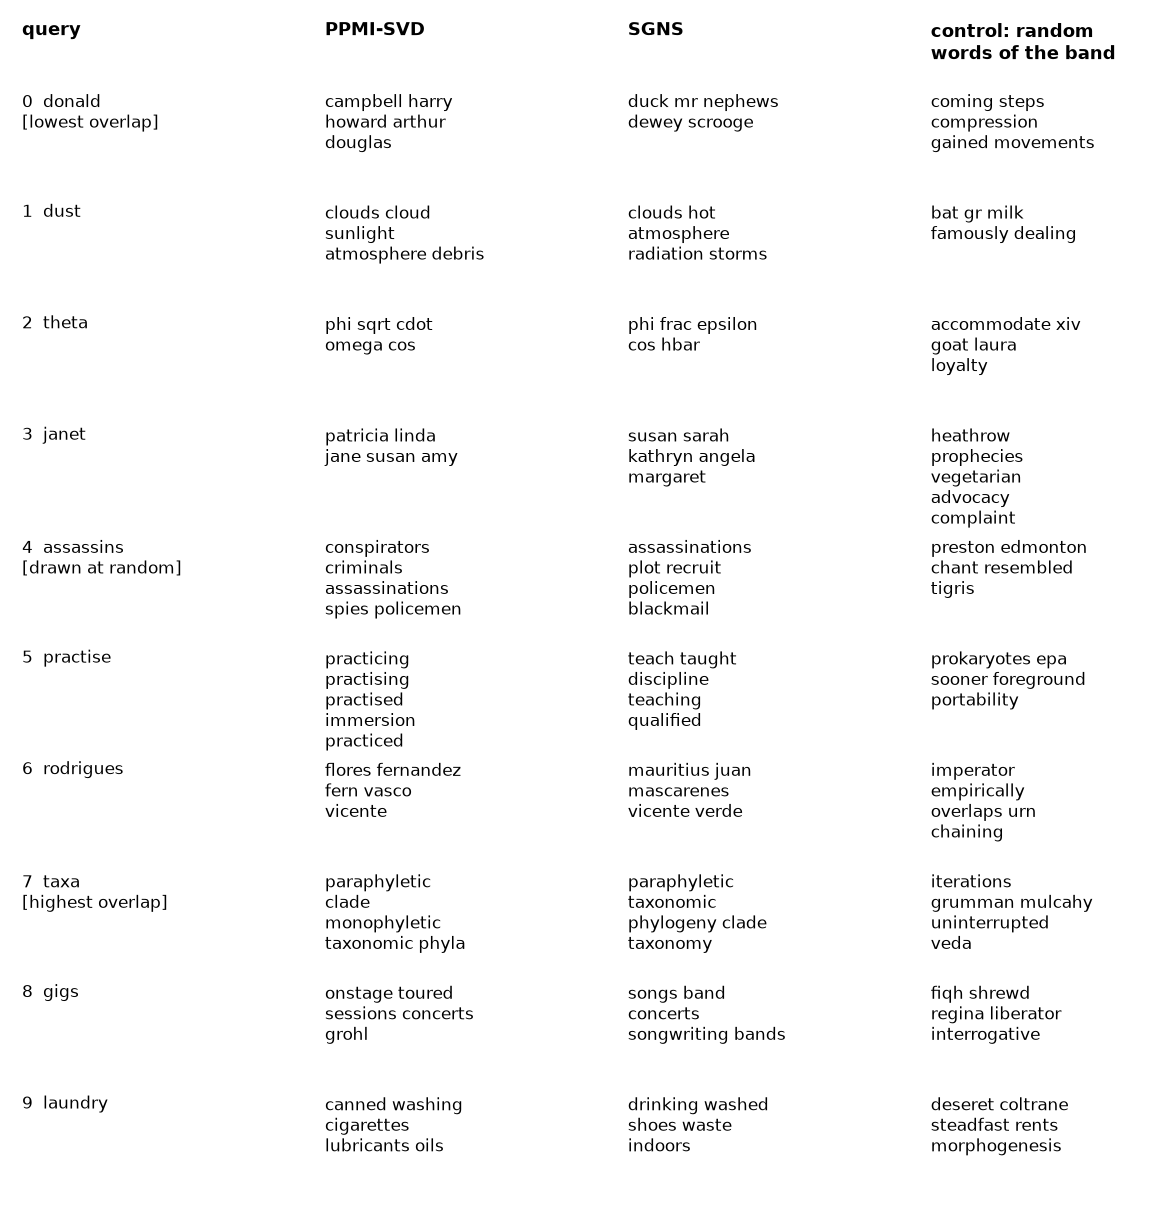
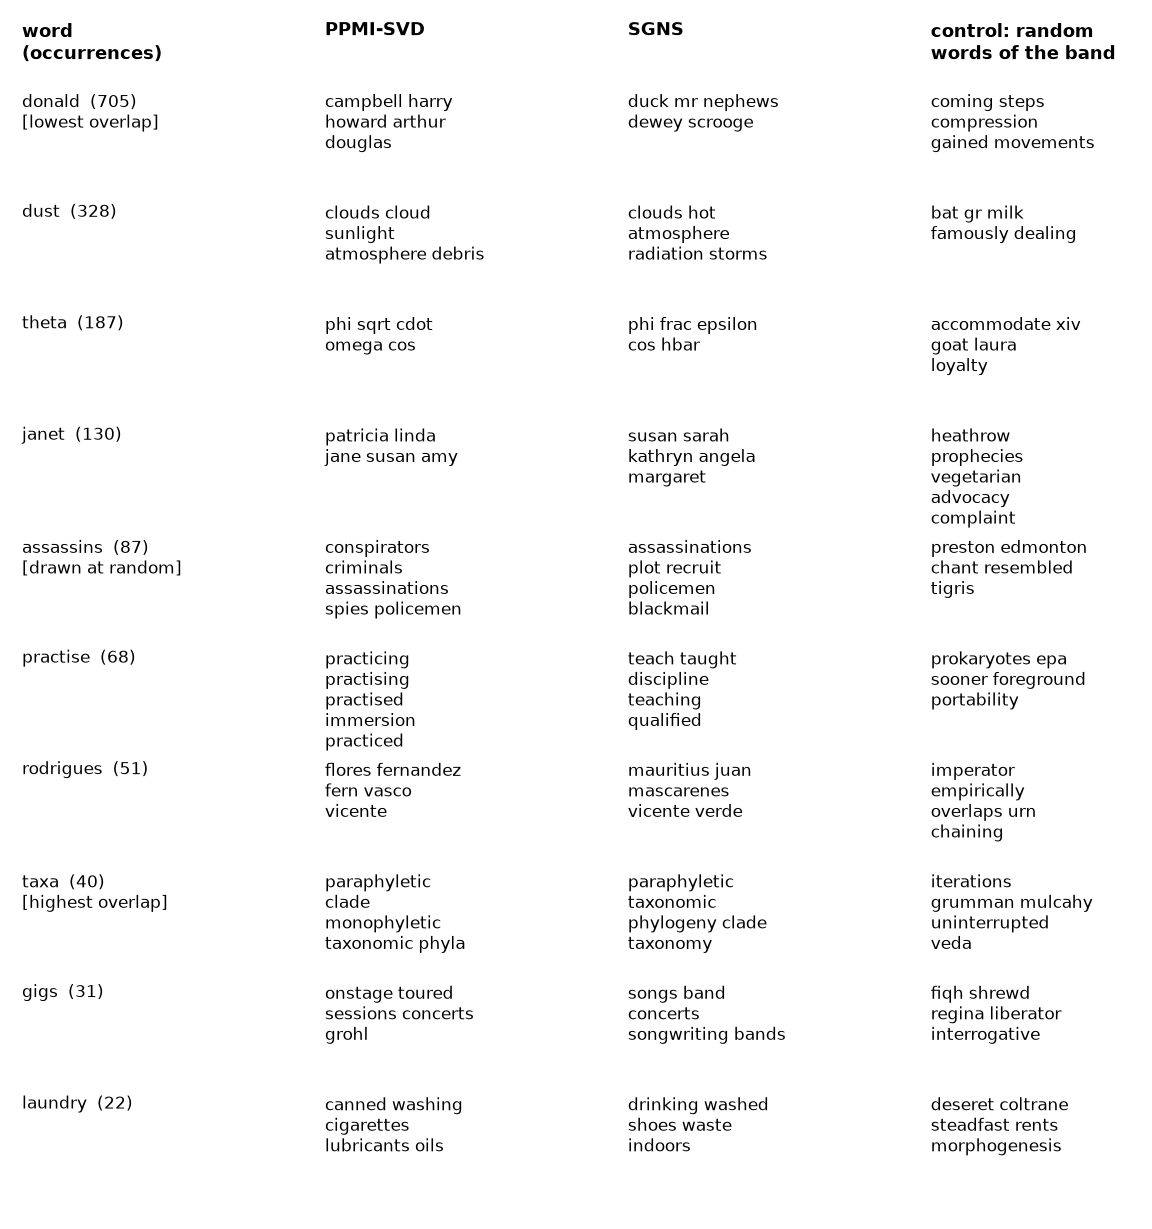
Enhance clarity and detail in meaning_as_likeness.qmd; update gallery functions to include word occurrence counts

diff --git a/code/meaning_as_likeness/gallery_figures.py b/code/meaning_as_likeness/gallery_figures.py
@@ -23,19 +23,20 @@ def save(fig, name: str) -> None:
     plt.close(fig)
 
 
-def neighbours_gallery(vocab: list[str], queries, controls, neighbours: dict, rule: dict) -> None:
-    """One query per frequency band (0 the most frequent), its five nearest neighbours in each space, and five random words of the band."""
+def neighbours_gallery(vocab: list[str], counts: np.ndarray, queries, controls, neighbours: dict, rule: dict) -> None:
+    """One query per frequency band, from the most frequent to the rarest, with its number of occurrences in the training text, its five
+    nearest neighbours in each space, and five random words of the band."""
     names = list(neighbours)
     fig, ax = plt.subplots(figsize=(6.5, 7.0))
     ax.axis("off")
-    columns = ["query"] + names + ["control: random\nwords of the band"]
+    columns = ["word\n(occurrences)"] + names + ["control: random\nwords of the band"]
     xs = np.linspace(0.0, 0.82, len(columns))
     for x, c in zip(xs, columns):
         ax.text(x, 1.0, c, fontweight="bold", fontsize=6, va="top")
     marks = {v: k for k, v in rule.items()}
     for r, q in enumerate(queries):
         y = 0.94 - r * 0.094
-        cells = [f"{r}  {vocab[q]}" + (f"\n[{marks[int(q)]}]" if int(q) in marks else "")]
+        cells = [f"{vocab[q]}  ({int(counts[q]):,})" + (f"\n[{marks[int(q)]}]" if int(q) in marks else "")]
         cells += [" ".join(vocab[i] for i in neighbours[n][q]) for n in names] + [" ".join(vocab[i] for i in controls[r])]
         for k, (x, c) in enumerate(zip(xs, cells)):
             ax.text(x, y, c if k == 0 else textwrap.fill(c, 17), fontsize=5.6, va="top")

diff --git a/code/meaning_as_likeness/gallery.py b/code/meaning_as_likeness/gallery.py
@@ -197,7 +197,7 @@ def report_edit_distance(spaces: dict, vocab, results: dict) -> dict:
     return edit
 
 
-def report_neighbours(spaces: dict, vocab, band, results: dict) -> None:
+def report_neighbours(spaces: dict, vocab, counts: np.ndarray, band, results: dict) -> None:
     trained = {n: spaces[n] for n in TRAINED}
     neighbours, per_word = overlaps(trained)
     results["overlap_per_band"] = {pair: [utils.bootstrap_mean(v[band == b]) for b in range(BANDS)] for pair, v in per_word.items()}
@@ -209,7 +209,7 @@ def report_neighbours(spaces: dict, vocab, band, results: dict) -> None:
             "drawn at random": int(np.random.default_rng(1).choice(queries))}
     results["discussed_queries"] = {k: vocab[v] for k, v in rule.items()}
     print("queries discussed in the text: " + ", ".join(f"{k}: {vocab[v]}" for k, v in rule.items()))
-    figures.neighbours_gallery(vocab, queries, controls, neighbours, rule)
+    figures.neighbours_gallery(vocab, counts, queries, controls, neighbours, rule)
 
 
 def main() -> None:
@@ -232,7 +232,7 @@ def main() -> None:
         results["spaces"][name], curves[name] = analyse_space(name, emb, syn, ant, covered)
     report_expectations(results)
     edit = report_edit_distance(spaces, vocab, results)
-    report_neighbours(spaces, vocab, band, results)
+    report_neighbours(spaces, vocab, counts, band, results)
     utils.save_results("gallery", results)
     centres = (np.arange(BINS) + 0.5) / BINS * 2 - 1
     figures.null_distribution({n: curves[n]["all pairs"] for n in [*TRAINED, "random Gaussian"]}, centres, spaces["SGNS"].shape[1])
